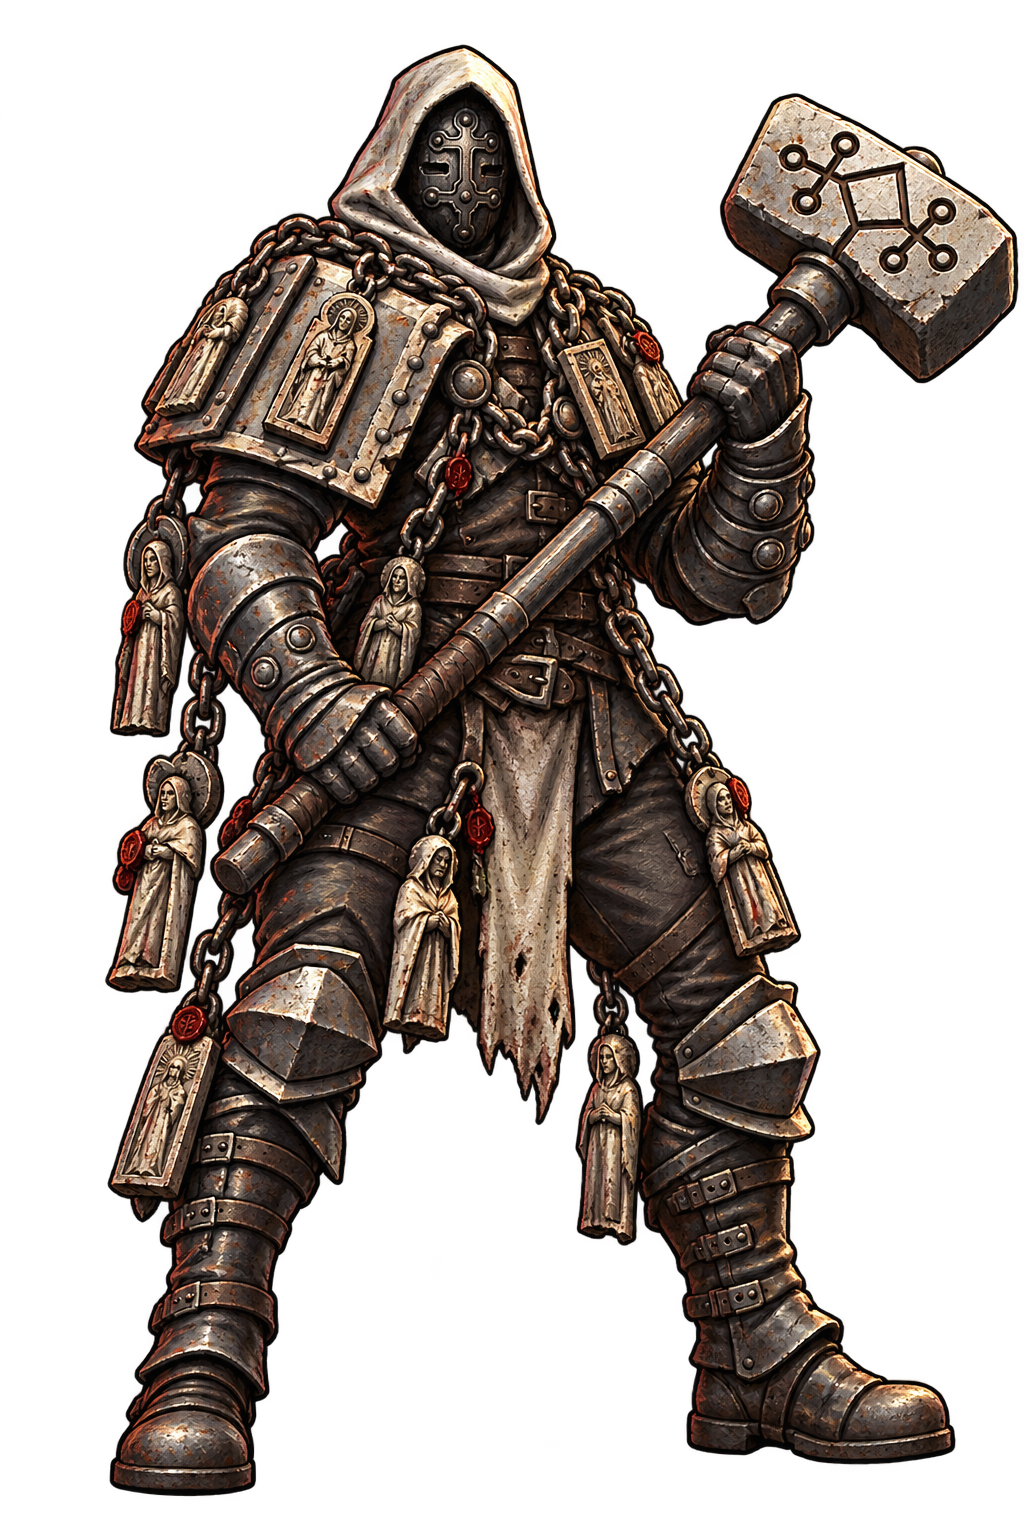
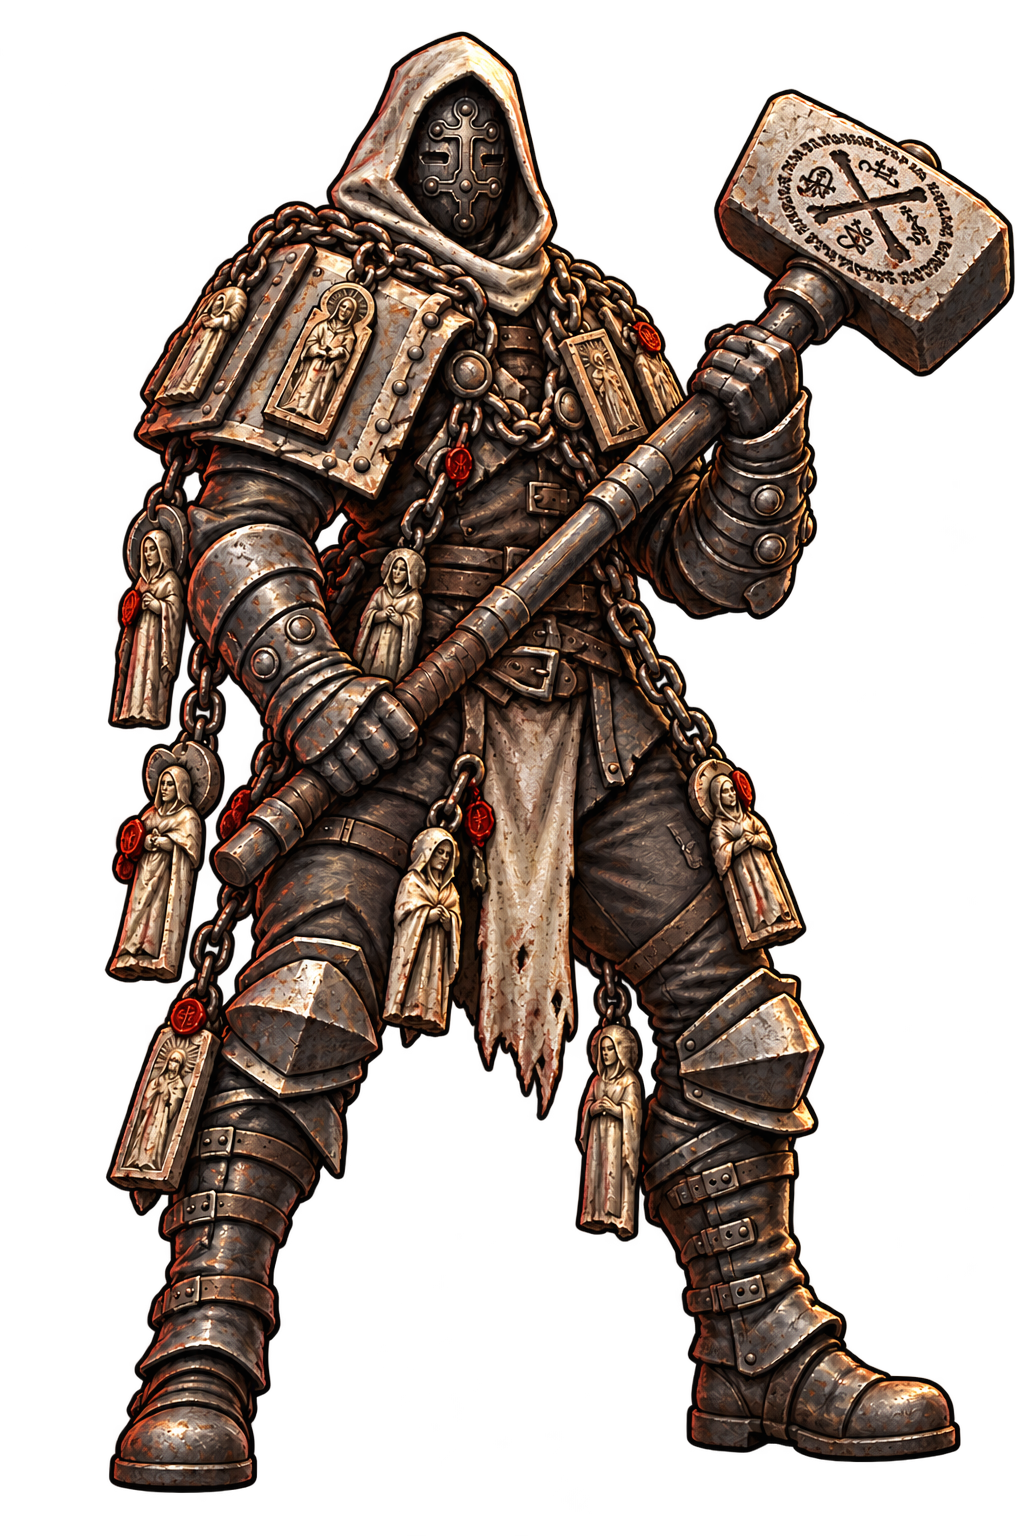
Apply Witch Hunter name and engraved banishment concept

diff --git a/experimental/witch_hunter/README.md b/experimental/witch_hunter/README.md
@@ -1,8 +1,8 @@
-# Crusader visual rework
+# Witch Hunter
 
-[First painted concept](concept.png)
+[Painted Witch Hunter concept](concept.png)
 
-Experimental concept for replacing the Penitent Crusader's current appearance with a hooded two-handed hammer fighter. Gameplay, character identity, abilities, animation assets and production artwork remain unchanged while the visual direction is reviewed.
+The approved visual direction is named **Witch Hunter**, a hooded two-handed hammer fighter intended to replace the Penitent Crusader. This folder contains the experimental character design; gameplay integration and animation assets are a later step.
 
 The user supplied a front-view image of [Bestiarum's Witch Hunter Bastion](https://bestiarumgames.com/products/witch-hunter-bastion-stl-penitent-hero) as the reference. The design carries over the hood, sealed devotional faceplate, broad armor, armored boots and long-shaft two-handed hammer. The cape is replaced with open hanging iron chains carrying carved robed figures and devotional plaques attached by rings. The hanging objects are relics rather than living figures. The hood remains cloth; the arms and legs stay readable through gaps in the chains.
 
@@ -11,3 +11,5 @@ The concept uses the game's painted, ink-outlined dark fantasy style, a heavy me
 This is a first design image, not an animation sheet. Front/back equipment layout, clean combat poses and any ability changes follow after visual approval.
 
 The concept was generated from the supplied reference image. Visual review checked the two-handed grip, complete hammer and boots, retained hood/mask, absent cape and chain-mounted relics. The PNG is 1024×1536 RGBA with transparency. No production tests were needed for this isolated concept image.
+
+The hammer face bears an engraved banishment seal inspired by the user-supplied crossed-bones sigil: a central bone X, smaller warding glyphs and a ring of runes. The engraving follows the metal face perspective. The chain-hung devotional relics, sealed mask, hood and two-handed grip retain the approved design.

diff --git a/experimental/README.md b/experimental/README.md
@@ -13,9 +13,10 @@ as separate projects.
 
 ## Current previews
 
-- [Crusader visual rework](crusader_rework/README.md): hooded two-handed hammer
+- [Witch Hunter](witch_hunter/README.md): hooded two-handed hammer
   fighter, sealed faceplate, and chains carrying carved devotional relics in
-  place of a cape. First painted concept for review.
+  place of a cape, with a banishment seal engraved on the hammer. Intended
+  replacement for the Penitent Crusader; experimental concept for review.
 
 - [Ranger bow and two-shot execution](ranger_showcase/README.md): narrow-stance
   draw/release transitions, a rapid stomach shot and headshot, dropped cleaver,
